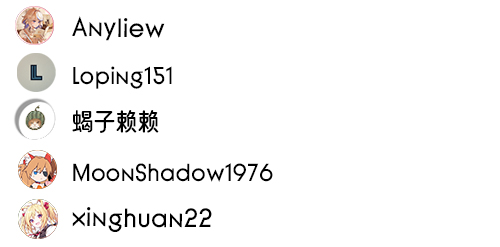
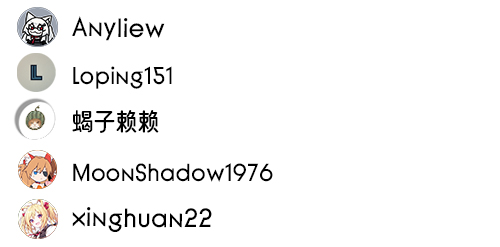
新增表情 今汐吃 kurogames_jinhsi_eat ； 新增表情 窃窃私语 whisper ； 新增表情 发情 kurogames_iuno_say ； 新增表情 尤诺说 estrous ； fleshlight_liuli_zi 琉璃子 素材重新抠图重做 ； fleshlight_limited_edition_saint_sister 限定版圣修女 素材重新抠图重做 ； kurogames_roccia_holdsign 洛可可举牌 新增2张素材图片，引用官方库街区洛可可wiki语录作为默认文本内容； 文档 QQ群二维码改为秧秧布偶； 文档 partner.jpg更新头像；

Changed region(s): [[0.03, 0.0283, 0.12, 0.1984]]

diff --git a/emoji/estrous/__init__.py b/emoji/estrous/__init__.py
@@ -1,0 +1,56 @@
+# 导入必要的模块
+from datetime import datetime
+from pathlib import Path
+
+from PIL.Image import Image as IMG  # 导入PIL的Image类并重命名为IMG
+from pil_utils import BuildImage  # 导入用于构建和操作图像的BuildImage类
+
+from meme_generator import add_meme  # 导入添加meme模板的函数
+from meme_generator.utils import save_gif  # 导入保存GIF的函数
+
+# 获取当前文件所在目录的路径，并拼接images子目录路径
+img_dir = Path(__file__).parent / "images"
+
+def estrous(images: list[BuildImage], texts, args):
+
+    user_head = images[0].resize((98, 66)).convert("RGBA") #.circle()
+    
+    # 初始化帧列表，用于存储每一帧图像
+    frames: list[IMG] = []
+
+    positions = [
+        (105, 229), (104, 230), (103, 232), (101, 232), (98, 233),  # 1-5
+        (96, 233), (93, 233), (91, 235), (89, 235), (86, 235),  # 6-10
+        (85, 235), (84, 234), (83, 235), (81, 232), (82, 233),  # 11-15
+        (82, 231), (85, 231), (87, 230), (89, 229), (92, 228),  # 16-20
+        (94, 227), (97, 227), (100, 226), (101, 226), (104, 225),  # 21-25
+        (106, 225), (106, 225), (109, 226), (109, 227), (108, 228),  # 26-30
+        (108, 229), (106, 230), (105, 227), # 31-33
+    ]
+
+    # 处理所有帧
+    for i in range(33):
+        frame_num = (i % 33) + 1
+        frame = BuildImage.open(img_dir / f"{frame_num}.png").convert("RGBA")
+        
+        # 创建一个新的图像，首先粘贴用户头像作为背景
+        new_frame = BuildImage.new("RGBA", frame.size)
+        new_frame.paste(user_head, positions[i], alpha=True)
+        
+        # 然后将原始帧内容粘贴到上面
+        new_frame.paste(frame, (0, 0), alpha=True)
+        
+        frames.append(new_frame.image)
+
+    # 将所有帧保存为GIF，帧间隔为0.03秒
+    return save_gif(frames, 0.03)
+
+add_meme(
+    "estrous",  # 模板的唯一标识符
+    estrous,  # 处理函数
+    min_images=1,  # 需要的最小图片数量
+    max_images=1,  # 需要的最大图片数量
+    keywords=["发情"],  # 搜索关键词
+    date_created=datetime(2025, 8, 11),  # 创建日期
+    date_modified=datetime(2025, 8, 11),  # 修改日期
+)

diff --git a/emoji/whisper/__init__.py b/emoji/whisper/__init__.py
@@ -1,0 +1,55 @@
+# 导入必要的模块
+from datetime import datetime
+from pathlib import Path
+
+from PIL.Image import Image as IMG  # 导入PIL的Image类并重命名为IMG
+from pil_utils import BuildImage  # 导入用于构建和操作图像的BuildImage类
+
+from meme_generator import add_meme  # 导入添加meme模板的函数
+from meme_generator.utils import save_gif  # 导入保存GIF的函数
+
+# 获取当前文件所在目录的路径，并拼接images子目录路径
+img_dir = Path(__file__).parent / "images"
+
+def whisper(images: list[BuildImage], texts, args):
+
+    user_head = images[0].resize((130, 130)).convert("RGBA") #.circle()
+    
+    # 初始化帧列表，用于存储每一帧图像
+    frames: list[IMG] = []
+
+    positions = [
+        (7, 64), (7, 64), (7, 64), (7, 64), (7, 64),  # 1-5
+        (7, 64), (7, 64), (7, 64), (7, 64), (7, 64),  # 6-10
+        (7, 64), (7, 64), (7, 64), (7, 64), (7, 64),  # 11-15
+        (7, 64), (7, 64), (7, 64), (7, 64), (7, 64),  # 16-20
+        (7, 64), (7, 64), (7, 64), (7, 64), (7, 64),  # 21-25
+        (7, 64), (7, 64), (7, 64), (7, 64), (7, 64),  # 26-30
+    ]
+
+    # 处理所有帧
+    for i in range(30):
+        frame_num = (i % 30) + 1
+        frame = BuildImage.open(img_dir / f"{frame_num}.png").convert("RGBA")
+        
+        # 创建一个新的图像，首先粘贴用户头像作为背景
+        new_frame = BuildImage.new("RGBA", frame.size)
+        new_frame.paste(user_head, positions[i], alpha=True)
+        
+        # 然后将原始帧内容粘贴到上面
+        new_frame.paste(frame, (0, 0), alpha=True)
+        
+        frames.append(new_frame.image)
+
+    # 将所有帧保存为GIF，帧间隔为0.07秒
+    return save_gif(frames, 0.07)
+
+add_meme(
+    "whisper",  # 模板的唯一标识符
+    whisper,  # 处理函数
+    min_images=1,  # 需要的最小图片数量
+    max_images=1,  # 需要的最大图片数量
+    keywords=["窃窃私语"],  # 搜索关键词
+    date_created=datetime(2025, 8, 11),  # 创建日期
+    date_modified=datetime(2025, 8, 11),  # 修改日期
+)

diff --git a/emoji/kurogames_jinhsi_eat/__init__.py b/emoji/kurogames_jinhsi_eat/__init__.py
@@ -1,0 +1,53 @@
+# 导入必要的模块
+from datetime import datetime
+from pathlib import Path
+
+from PIL.Image import Image as IMG  # 导入PIL的Image类并重命名为IMG
+from pil_utils import BuildImage  # 导入用于构建和操作图像的BuildImage类
+from meme_generator.tags import MemeTags
+
+from meme_generator import add_meme  # 导入添加meme模板的函数
+from meme_generator.utils import save_gif  # 导入保存GIF的函数
+
+# 获取当前文件所在目录的路径，并拼接images子目录路径
+img_dir = Path(__file__).parent / "images"
+
+def kurogames_jinhsi_eat(images: list[BuildImage], texts, args):
+
+    user_head = images[0].resize((135, 135)).convert("RGBA") #.circle()
+    
+    # 初始化帧列表，用于存储每一帧图像
+    frames: list[IMG] = []
+
+    positions = [
+        (146, 343), (146, 343), (146, 343), (146, 343), (146, 343),  # 1-5
+        (146, 343), (146, 343), (146, 343), # 6-8
+    ]
+
+    # 处理所有帧
+    for i in range(8):
+        frame_num = (i % 8) + 1
+        frame = BuildImage.open(img_dir / f"{frame_num}.png").convert("RGBA")
+        
+        # 创建一个新的图像，首先粘贴用户头像作为背景
+        new_frame = BuildImage.new("RGBA", frame.size)
+        new_frame.paste(user_head, positions[i], alpha=True)
+        
+        # 然后将原始帧内容粘贴到上面
+        new_frame.paste(frame, (0, 0), alpha=True)
+        
+        frames.append(new_frame.image)
+
+    # 将所有帧保存为GIF，帧间隔为0.07秒
+    return save_gif(frames, 0.07)
+
+add_meme(
+    "kurogames_jinhsi_eat",  # 模板的唯一标识符
+    kurogames_jinhsi_eat,  # 处理函数
+    min_images=1,  # 需要的最小图片数量
+    max_images=1,  # 需要的最大图片数量
+    keywords=["今汐吃"],  # 搜索关键词
+    tags=MemeTags.wuthering_waves,
+    date_created=datetime(2025, 8, 11),  # 创建日期
+    date_modified=datetime(2025, 8, 11),  # 修改日期
+)

diff --git a/emoji/kurogames_roccia_holdsign/__init__.py b/emoji/kurogames_roccia_holdsign/__init__.py
@@ -1,5 +1,6 @@
 from datetime import datetime
 from pathlib import Path
+import random
 
 from pil_utils import BuildImage
 
@@ -12,10 +13,21 @@ img_dir = Path(__file__).parent / "images"
 
 def kurogames_roccia_holdsign(images, texts: list[str], args):
     text = texts[0]
-    frame = BuildImage.open(img_dir / "0.jpg")
+    
+    # 随机选择一张图片
+    img_index = random.randint(0, 2)
+    frame = BuildImage.open(img_dir / f"{img_index}.jpg")
+    
+    # 为每张图片设置不同的文字区域坐标
+    text_areas = [
+        (313, 548, 623, 902),   # 图片0的坐标
+        (272, 477, 723, 812),    # 图片1的坐标
+        (339, 611, 717, 891)     # 图片2的坐标
+    ]
+    
     try:
         frame.draw_text(
-            (313, 548, 623, 902),
+            text_areas[img_index],
             text,
             fill=(0, 0, 0),
             allow_wrap=True,
@@ -34,7 +46,7 @@ add_meme(
     kurogames_roccia_holdsign,
     min_texts=1,
     max_texts=1,
-    default_texts=["草我"],
+    default_texts=["佩洛肚皮空空，灵感快来快来"],
     keywords=["洛可可举牌"],
     tags=MemeTags.wuthering_waves,
     date_created=datetime(2025, 8, 10),

diff --git a/emoji/kurogames_iuno_say/__init__.py b/emoji/kurogames_iuno_say/__init__.py
@@ -1,0 +1,42 @@
+from datetime import datetime
+from pathlib import Path
+
+from pil_utils import BuildImage
+
+from meme_generator import add_meme
+from meme_generator.exception import TextOverLength
+from meme_generator.tags import MemeTags
+
+img_dir = Path(__file__).parent / "images"
+
+
+def kurogames_iuno_say(images, texts: list[str], args):
+    text = texts[0]
+    frame = BuildImage.open(img_dir / "0.jpg")
+    try:
+        frame.draw_text(
+            (1, 1, 199, 42),
+            text,
+            fill=(0, 0, 0),
+            allow_wrap=True,
+            max_fontsize=80,
+            min_fontsize=5,
+            lines_align="center",
+            font_families=["FZShaoEr-M11S"],
+        )
+    except ValueError:
+        raise TextOverLength(text)
+    return frame.save_jpg()
+
+
+add_meme(
+    "kurogames_iuno_say",
+    kurogames_iuno_say,
+    min_texts=1,
+    max_texts=1,
+    default_texts=["月亮游离世间"],
+    keywords=["尤诺说"],
+    tags=MemeTags.wuthering_waves,
+    date_created=datetime(2025, 8, 11),
+    date_modified=datetime(2025, 8, 11),
+)
